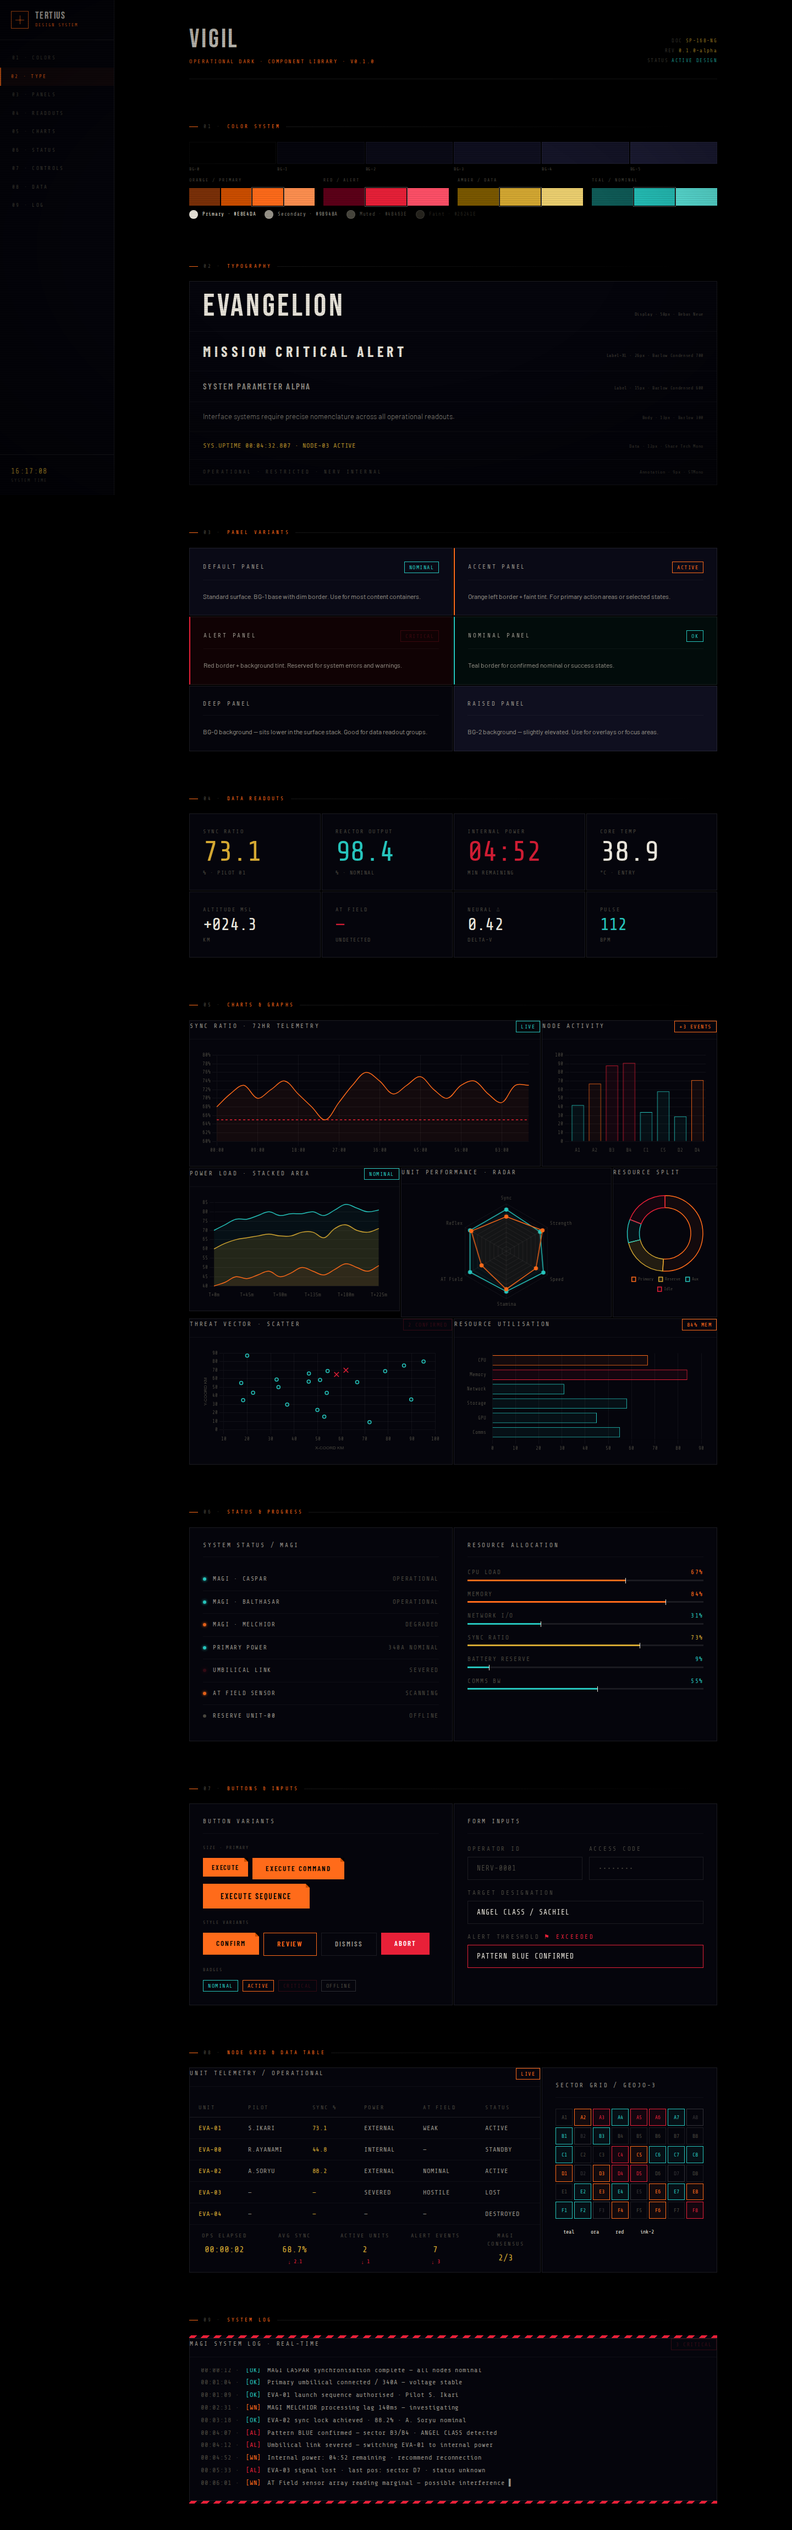
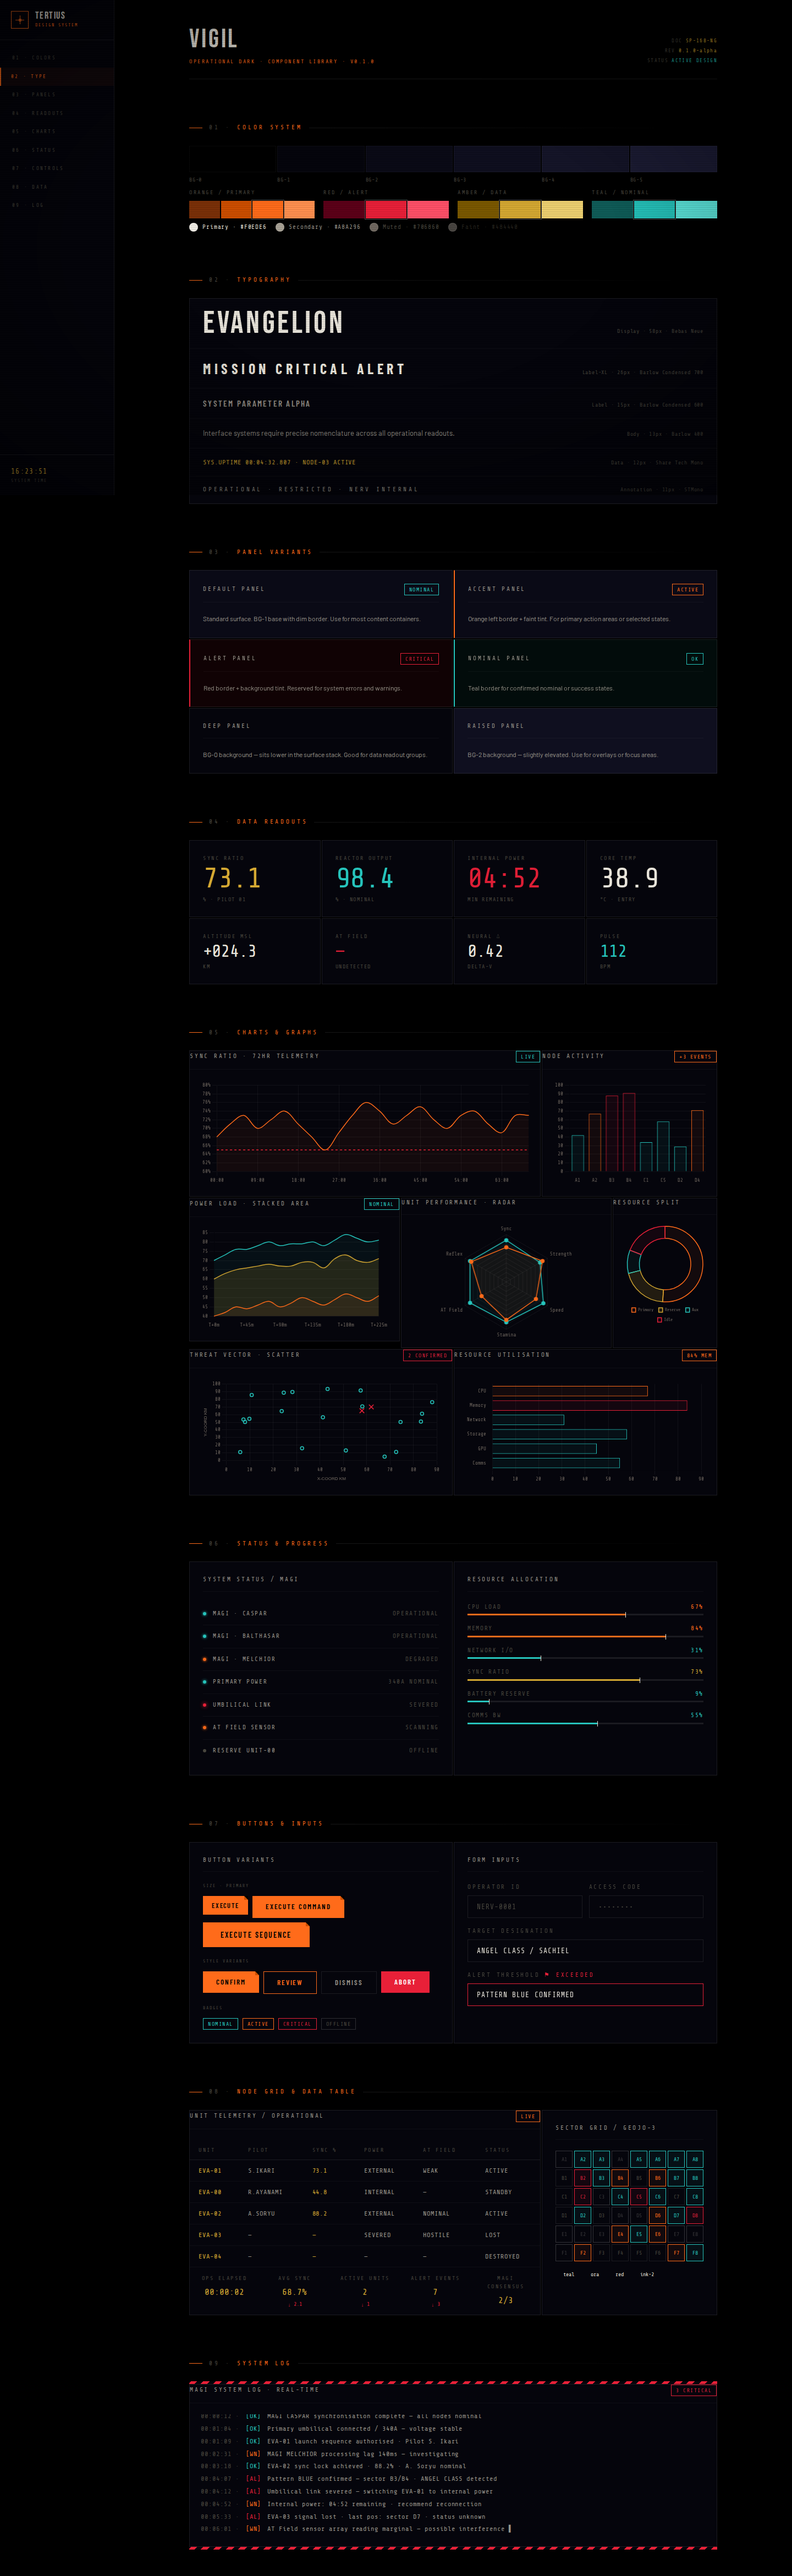
feat: improve text legibility across the design system
- Brighten ink color palette for better contrast on dark backgrounds:
  - ink.0: #E8E4DA → #F0EDE6
  - ink.1: #98948A → #A8A296
  - ink.2: #48463E → #706860
  - ink.3: #26241E → #484440
- Increase text sizes in showcase: 8px → 10px, 9px → 11px for labels
- Remove font-light (300) from body text, use normal weight
- Increase BG color swatch height for better visibility

diff --git a/src/routes/+page.svelte b/src/routes/+page.svelte
@@ -305,8 +305,8 @@
           <div class="flex gap-0.5">
             {#each ['#000000', '#05050C', '#0A0A16', '#0F0F1F', '#151528', '#1C1C34'] as bg, i}
               <div class="flex-1">
-                <div class="border-b0 h-10 border" style="background:{bg}"></div>
-                <div class="mt-1 font-data text-[8px] tracking-wide text-ink-2">BG-{i}</div>
+                <div class="border-b0 h-12 border" style="background:{bg}"></div>
+                <div class="mt-1.5 font-data text-[10px] tracking-wide text-ink-2">BG-{i}</div>
               </div>
             {/each}
           </div>
@@ -314,7 +314,7 @@
           <div class="mt-4 grid grid-cols-4 gap-4">
             {#each [{ name: 'Orange / Primary', swatches: ['#7A3008', '#CC4E00', '#FF6B1A', '#FF9050'], active: 2 }, { name: 'Red / Alert', swatches: ['#5C0018', '#E82038', '#FF5068'], active: 1 }, { name: 'Amber / Data', swatches: ['#7A5800', '#D4A832', '#EDD070'], active: 1 }, { name: 'Teal / Nominal', swatches: ['#105C58', '#26C4BC', '#5EEAE0'], active: 1 }] as ramp}
               <div>
-                <div class="mb-2 font-data text-[8px] uppercase tracking-widest text-ink-2">
+                <div class="mb-2 font-data text-[10px] uppercase tracking-widest text-ink-2">
                   {ramp.name}
                 </div>
                 <div class="flex gap-0.5">
@@ -332,10 +332,10 @@
           </div>
           <!-- Text scale -->
           <div class="mt-4 flex flex-wrap items-center gap-4">
-            {#each [['text-ink-0', 'Primary', '#E8E4DA'], ['text-ink-1', 'Secondary', '#98948A'], ['text-ink-2', 'Muted', '#48463E'], ['text-ink-3', 'Faint', '#26241E']] as [cls, label, hex]}
+            {#each [['text-ink-0', 'Primary', '#F0EDE6'], ['text-ink-1', 'Secondary', '#A8A296'], ['text-ink-2', 'Muted', '#706860'], ['text-ink-3', 'Faint', '#484440']] as [cls, label, hex]}
               <div class="flex items-center gap-2">
                 <div class="border-b1 h-4 w-4 rounded-full border" style="background:{hex}"></div>
-                <span class="font-data text-[9px] {cls} tracking-wide">{label} · {hex}</span>
+                <span class="font-data text-[11px] {cls} tracking-wide">{label} · {hex}</span>
               </div>
             {/each}
           </div>
@@ -346,12 +346,12 @@
       <section id="type">
         <SectionLabel number="02">Typography</SectionLabel>
         <Panel variant="deep" flush>
-          {#each [{ sample: 'EVANGELION', cls: 'font-display text-[58px] leading-none tracking-wide', meta: 'Display · 58px · Bebas Neue' }, { sample: 'MISSION CRITICAL ALERT', cls: 'font-label text-[26px] uppercase tracking-widest font-bold', meta: 'Label-XL · 26px · Barlow Condensed 700' }, { sample: 'System Parameter Alpha', cls: 'font-label text-[15px] uppercase tracking-wider font-semibold text-ink-1', meta: 'Label · 15px · Barlow Condensed 600' }, { sample: 'Interface systems require precise nomenclature across all operational readouts.', cls: 'font-body text-[13px] text-ink-1 font-light max-w-xl leading-relaxed', meta: 'Body · 13px · Barlow 300' }, { sample: 'SYS.UPTIME 00:04:32.807 · NODE-03 ACTIVE', cls: 'font-data text-[12px] text-amb tracking-wide', meta: 'Data · 12px · Share Tech Mono' }, { sample: 'OPERATIONAL · RESTRICTED · NERV INTERNAL', cls: 'font-data text-[9px] text-ink-2 tracking-widest2 uppercase', meta: 'Annotation · 9px · STMono' }] as row}
+          {#each [{ sample: 'EVANGELION', cls: 'font-display text-[58px] leading-none tracking-wide', meta: 'Display · 58px · Bebas Neue' }, { sample: 'MISSION CRITICAL ALERT', cls: 'font-label text-[26px] uppercase tracking-widest font-bold', meta: 'Label-XL · 26px · Barlow Condensed 700' }, { sample: 'System Parameter Alpha', cls: 'font-label text-[15px] uppercase tracking-wider font-semibold text-ink-1', meta: 'Label · 15px · Barlow Condensed 600' }, { sample: 'Interface systems require precise nomenclature across all operational readouts.', cls: 'font-body text-[13px] text-ink-1 max-w-xl leading-relaxed', meta: 'Body · 13px · Barlow 400' }, { sample: 'SYS.UPTIME 00:04:32.807 · NODE-03 ACTIVE', cls: 'font-data text-[12px] text-amb tracking-wide', meta: 'Data · 12px · Share Tech Mono' }, { sample: 'OPERATIONAL · RESTRICTED · NERV INTERNAL', cls: 'font-data text-[11px] text-ink-1 tracking-widest2 uppercase', meta: 'Annotation · 11px · STMono' }] as row}
             <div
               class="border-b0 flex items-baseline justify-between gap-4 border-b px-6 py-4 last:border-b-0"
             >
               <div class={row.cls}>{row.sample}</div>
-              <div class="flex-shrink-0 font-data text-[8px] tracking-wide text-ink-2">
+              <div class="flex-shrink-0 font-data text-[10px] tracking-wide text-ink-2">
                 {row.meta}
               </div>
             </div>

diff --git a/src/lib/tokens/theme.js b/src/lib/tokens/theme.js
@@ -55,10 +55,10 @@ export const colors = {
     700: '#105C58',
   },
   ink: {
-    0: '#E8E4DA', // primary text
-    1: '#98948A', // secondary text
-    2: '#48463E', // muted text
-    3: '#26241E', // faint text
+    0: '#F0EDE6', // primary text
+    1: '#A8A296', // secondary text
+    2: '#706860', // muted text (was too dim)
+    3: '#484440', // faint text
   },
 }
 
